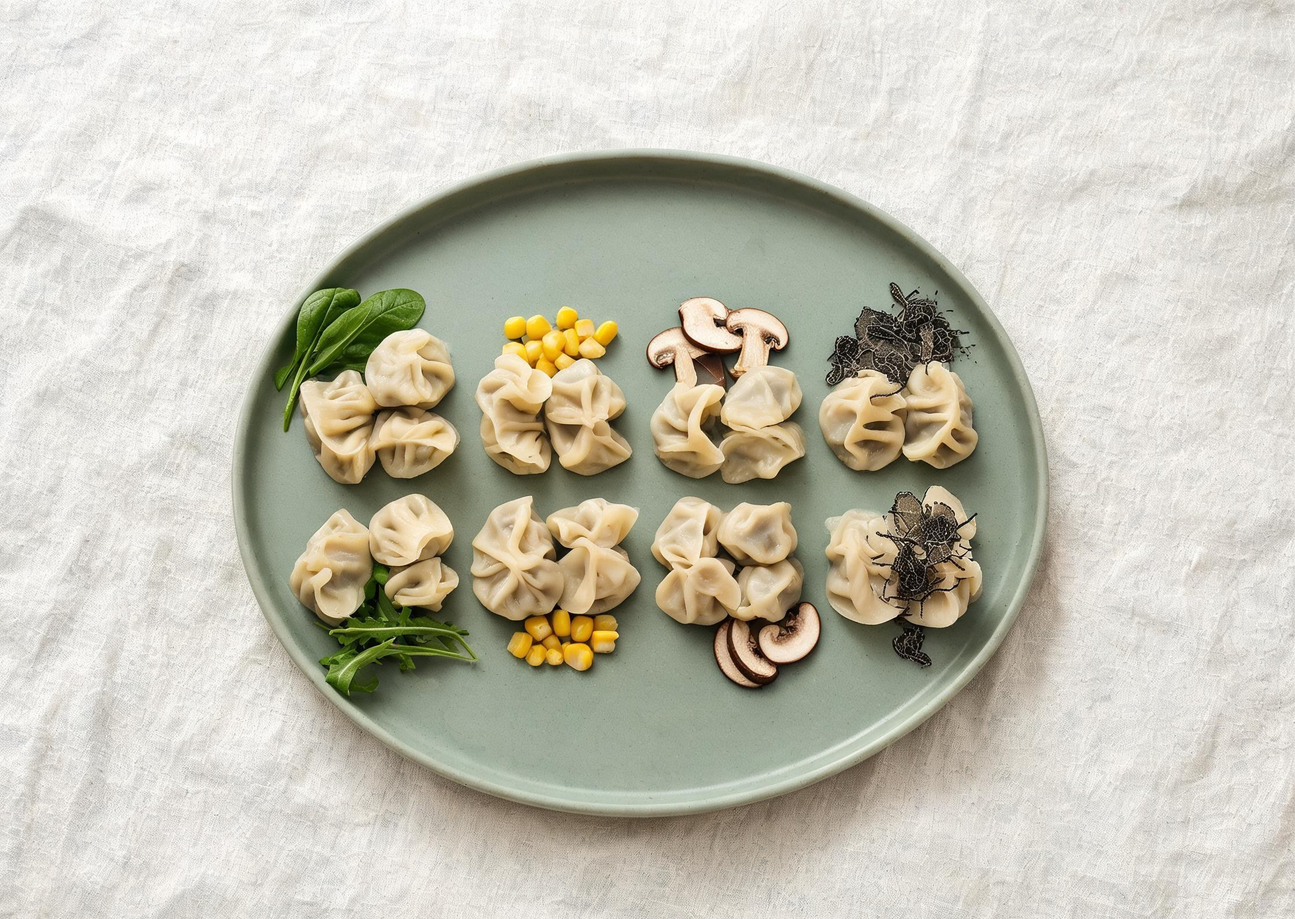
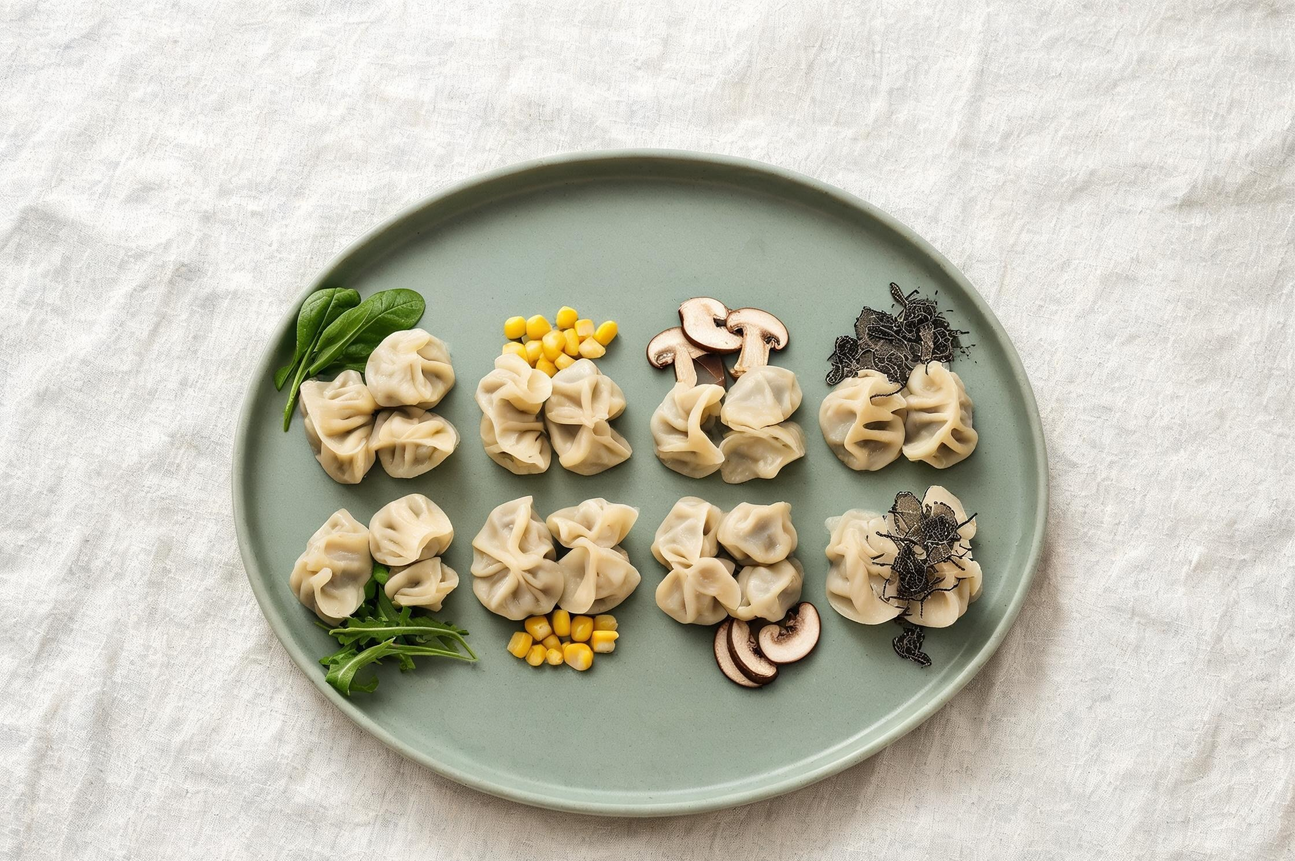
feat: update workspace

diff --git a/src/app/page.tsx b/src/app/page.tsx
@@ -9,6 +9,8 @@ import {
   Globe2,
   Clock3,
   Star,
+  Heart,
+  Quote,
 } from "lucide-react";
 import { SiteHeader } from "@/components/SiteHeader";
 import { SiteFooter } from "@/components/SiteFooter";
@@ -122,8 +124,8 @@ export default function HomePage() {
           <div className="relative animate-fade-up delay-1">
             <div className="relative overflow-hidden rounded-t-[9rem] rounded-b-3xl border border-rice-300 bg-rice-100 shadow-soft">
               <img
-                src="/images/heye-hero.jpg"
-                alt="竹笼里刚蒸好的手工素饺，旁边是新鲜荠菜与麦穗"
+                src="/images/heye-hero-v2.jpg"
+                alt="竹笼里刚出锅的手工素饺，旁边是新鲜荠菜与麦穗"
                 className="h-[24rem] w-full object-cover sm:h-[30rem] md:h-[34rem]"
               />
               <div className="absolute inset-x-0 bottom-0 h-40 bg-gradient-to-t from-primary-900/80 via-primary-900/25 to-transparent" />
@@ -236,6 +238,107 @@ export default function HomePage() {
               </p>
             </div>
           ))}
+        </div>
+      </section>
+
+      {/* 一碗的温度 · 顾客 H 的故事 */}
+      <section
+        id="warmth"
+        className="relative overflow-hidden border-t border-rice-300/70 bg-rice-100/60 paper-grain py-20 md:py-28"
+      >
+        <div
+          className="pointer-events-none absolute -top-24 right-0 h-72 w-72 rounded-full bg-wheat-200/35 blur-3xl"
+          aria-hidden="true"
+        />
+        <div
+          className="pointer-events-none absolute -bottom-32 -left-20 h-80 w-80 rounded-full bg-primary-200/35 blur-3xl"
+          aria-hidden="true"
+        />
+
+        <div className="relative mx-auto grid max-w-6xl gap-12 px-4 lg:grid-cols-[1.02fr_0.98fr] lg:items-center">
+          <div className="animate-fade-up">
+            <div className="text-[11px] tracking-[0.4em] text-primary-600">
+              A BOWL OF WARMTH · 一碗的温度
+            </div>
+            <h2 className="mt-4 font-serif-cn text-4xl leading-tight text-primary-900 md:text-5xl">
+              同样的饺子，
+              <br />
+              为什么店里更好吃？
+            </h2>
+            <WheatDivider className="my-7 max-w-[16rem]" />
+
+            <div className="font-serif-cn text-[17px] leading-[2.1] text-stone-600">
+              <p className="flex gap-2">
+                <Quote className="mt-1.5 h-4 w-4 shrink-0 text-wheat-500" aria-hidden="true" />
+                <span>
+                  经常有顾客问我们：为什么在家里煮同样的饺子，
+                  <br className="hidden sm:block" />
+                  感觉没有店里做的好吃？
+                </span>
+              </p>
+              <p className="mt-4">
+                不同的，也许是食客的心情。
+                <br />
+                在这里，你听到的是亲切的招待，
+                <br />
+                触摸的是归家的温暖，体会的是做餐人的用心。
+              </p>
+            </div>
+
+            <div className="relative mt-9 rounded-2xl border border-accent-200/70 bg-rice-50 p-6 shadow-paper">
+              <div className="absolute -top-3 left-6 flex items-center gap-1.5 bg-rice-50 px-2 text-[10px] tracking-[0.26em] text-accent-600">
+                <Heart className="h-3 w-3" aria-hidden="true" />
+                CUSTOMER H · 顾客 H
+              </div>
+              <div className="flex items-start gap-5">
+                <div className="shrink-0 border border-accent-200 bg-rice-100 px-3 py-2 text-center">
+                  <div className="font-serif-cn text-3xl leading-none text-accent-600">
+                    60
+                  </div>
+                  <div className="mt-1 text-[10px] tracking-[0.14em] text-stone-500">
+                    个饺子
+                  </div>
+                </div>
+                <p className="font-serif-cn text-[15px] leading-[1.95] text-stone-700">
+                  那天，顾客 H 来店里品尝我们的水饺。
+                  他品到了背后的用心，感动得落泪——
+                  那一顿，他一共吃了 60 个饺子。
+                </p>
+              </div>
+            </div>
+          </div>
+
+          <div className="relative animate-fade-up delay-2">
+            <div className="relative overflow-hidden rounded-[2rem] border border-rice-300 shadow-soft">
+              <img
+                src="/images/heye-story-warm-1.jpg"
+                alt="双手端着一碗刚出锅的素饺，热气缓缓升起"
+                className="h-[20rem] w-full object-cover sm:h-[26rem]"
+              />
+              <div className="absolute inset-x-0 bottom-0 h-24 bg-gradient-to-t from-primary-900/60 to-transparent" />
+              <div className="absolute left-5 bottom-4 font-serif-cn text-lg text-rice-50 [text-shadow:0_1px_8px_rgba(24,36,28,0.55)]">
+                那一碗，还冒着热气
+              </div>
+            </div>
+
+            <div className="mt-4 grid grid-cols-2 gap-4">
+              <img
+                src="/images/heye-story-warm-2.jpg"
+                alt="木桌上的一碗素饺、筷子与醋碟"
+                className="h-32 w-full rounded-2xl border border-rice-300 object-cover shadow-paper sm:h-40"
+              />
+              <img
+                src="/images/heye-story-warm-3.jpg"
+                alt="俯拍的素饺、麦穗与木筷，安静的一餐"
+                className="h-32 w-full rounded-2xl border border-rice-300 object-cover shadow-paper sm:h-40"
+              />
+            </div>
+
+            <div className="mt-4 flex items-center gap-2.5 text-[10px] tracking-[0.22em] text-stone-500">
+              <span className="h-px w-6 bg-wheat-400/70" aria-hidden="true" />
+              同一碗饺子 · 三种温度
+            </div>
+          </div>
         </div>
       </section>
 
